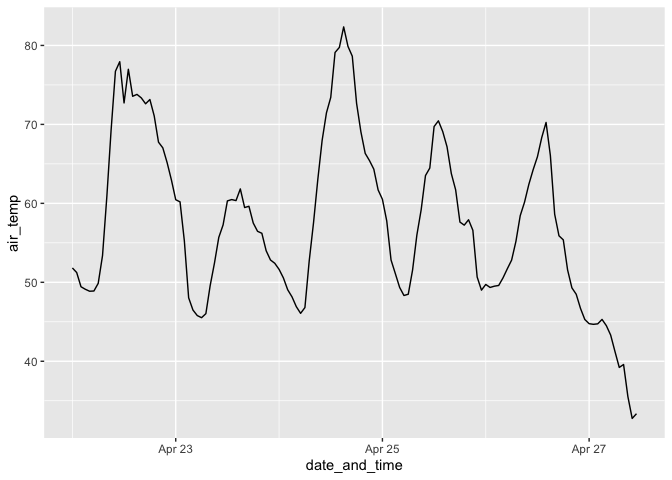
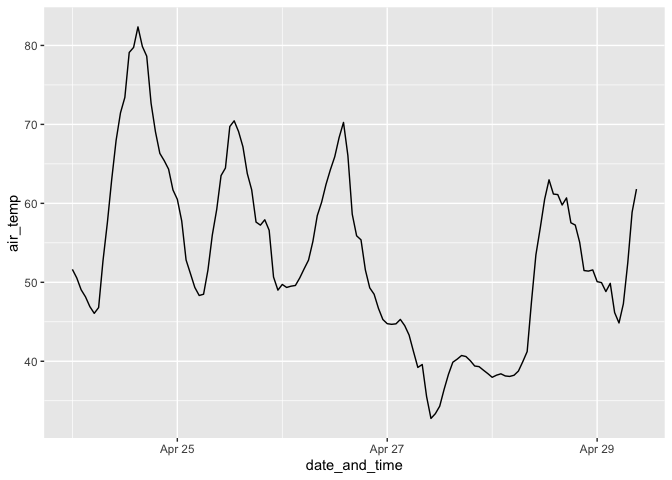
set lifecyle experimental

diff --git a/README.md b/README.md
@@ -6,6 +6,8 @@
 <!-- badges: start -->
 
 [![R-CMD-check](https://github.com/andypicke/rcoagmet/actions/workflows/R-CMD-check.yaml/badge.svg)](https://github.com/andypicke/rcoagmet/actions/workflows/R-CMD-check.yaml)
+[![Lifecycle:
+experimental](https://img.shields.io/badge/lifecycle-experimental-orange.svg)](https://lifecycle.r-lib.org/articles/stages.html#experimental)
 <!-- badges: end -->
 
 The goal of rcoagmet is to provide functions for downloading data from
@@ -74,24 +76,17 @@ Download data for one station:
 ``` r
 
 df <- get_coagmet_data_one_station(station_id = "den01")
-#> Rows: 133 Columns: 14
-#> ── Column specification ────────────────────────────────────────────────────────
-#> Delimiter: ","
-#> chr (14): Station, Date and Time, Air Temp, RH, Dewpoint, Solar Rad, Precip,...
-#> 
-#> ℹ Use `spec()` to retrieve the full column specification for this data.
-#> ℹ Specify the column types or set `show_col_types = FALSE` to quiet this message.
 
 head(df)
 #> # A tibble: 6 × 16
 #>   station date_and_time       air_temp    rh dewpoint solar_rad precip  wind
 #>   <chr>   <dttm>                 <dbl> <dbl>    <dbl>     <dbl>  <dbl> <dbl>
-#> 1 den01   2024-04-22 00:00:00     51.8 0.515     34.5      0         0  2.4 
-#> 2 den01   2024-04-22 01:00:00     51.2 0.522     34.3      0         0  2.34
-#> 3 den01   2024-04-22 02:00:00     49.4 0.565     34.6      0         0  1.39
-#> 4 den01   2024-04-22 03:00:00     49.1 0.547     33.5      0         0  1.48
-#> 5 den01   2024-04-22 04:00:00     48.9 0.522     32.1      0         0  2.07
-#> 6 den01   2024-04-22 05:00:00     48.9 0.486     30.4      0.03      0  1.41
+#> 1 den01   2024-04-24 00:00:00     51.6 0.614     38.8      0         0  0.77
+#> 2 den01   2024-04-24 01:00:00     50.6 0.656     39.5      0         0  2.19
+#> 3 den01   2024-04-24 02:00:00     49.1 0.698     39.6      0         0  1.76
+#> 4 den01   2024-04-24 03:00:00     48.2 0.71      39.2      0         0  1.71
+#> 5 den01   2024-04-24 04:00:00     46.9 0.724     38.5      0         0  1.04
+#> 6 den01   2024-04-24 05:00:00     46.1 0.73      37.9      0.15      0  1.91
 #> # ℹ 8 more variables: wind_dir <dbl>, gust_speed <dbl>, gust_time <chr>,
 #> #   gust_dir <dbl>, x5cm_soil_temp <dbl>, x15cm_soil_temp <dbl>, date <date>,
 #> #   gust_time2 <dttm>
